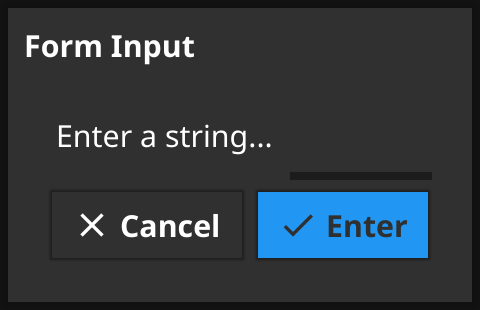
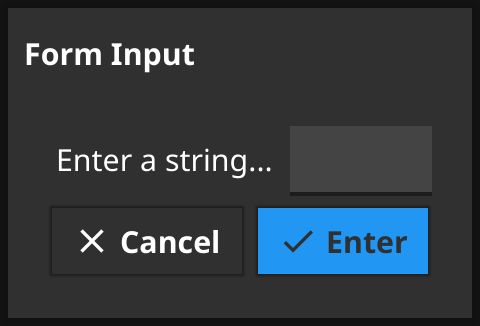
Update dialogs to latest look

diff --git a/_gen/gendialogs.go b/_gen/gendialogs.go
@@ -32,7 +32,7 @@ func makeDrawList() []drawItem {
 		{"confirm", func(w fyne.Window) { dialog.ShowConfirm("Please Confirm", "Are you sure..?", func(bool) {}, w) }},
 		{"fileopen", func(w fyne.Window) { dialog.ShowFileOpen(func(fyne.URIReadCloser, error) {}, w) }},
 		{"form", func(w fyne.Window) {
-			dialog.ShowFormDialog("Form Input", "Enter", "Cancel",
+			dialog.ShowForm("Form Input", "Enter", "Cancel",
 				[]*widget.FormItem{widget.NewFormItem("Enter a string...", widget.NewEntry())}, func(bool) {}, w)
 		}},
 		{"custom", func(w fyne.Window) {
